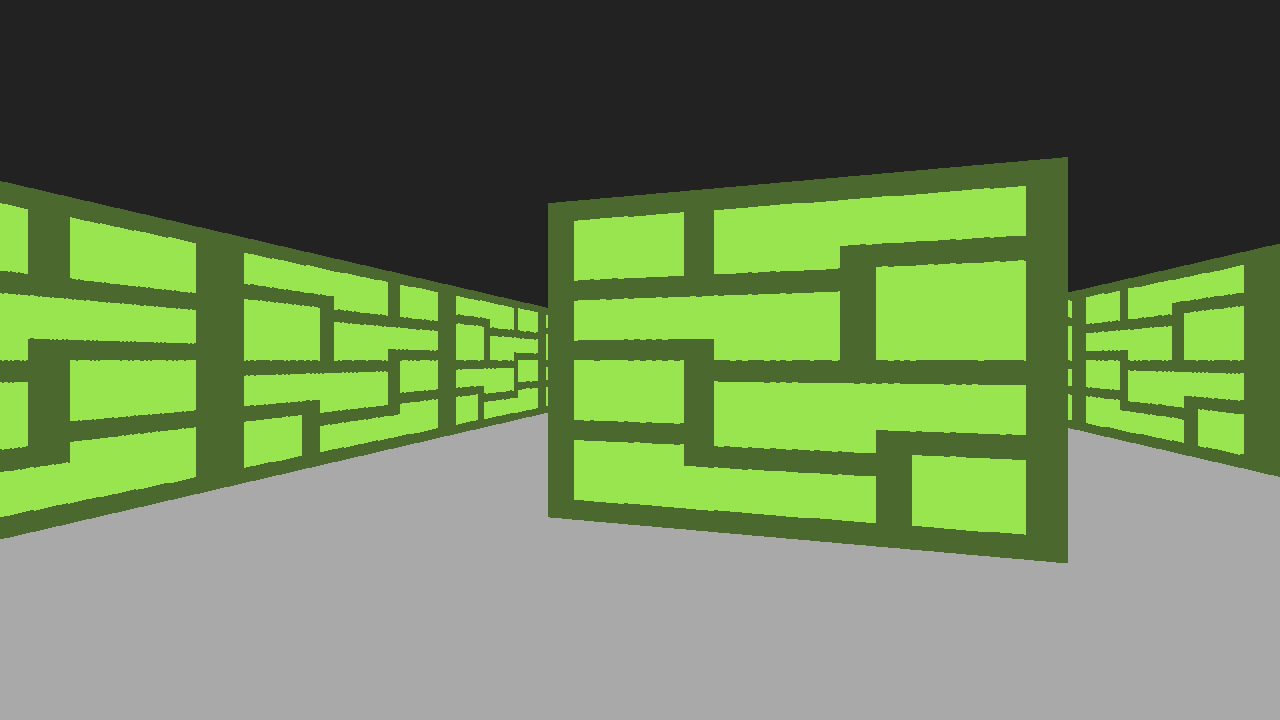
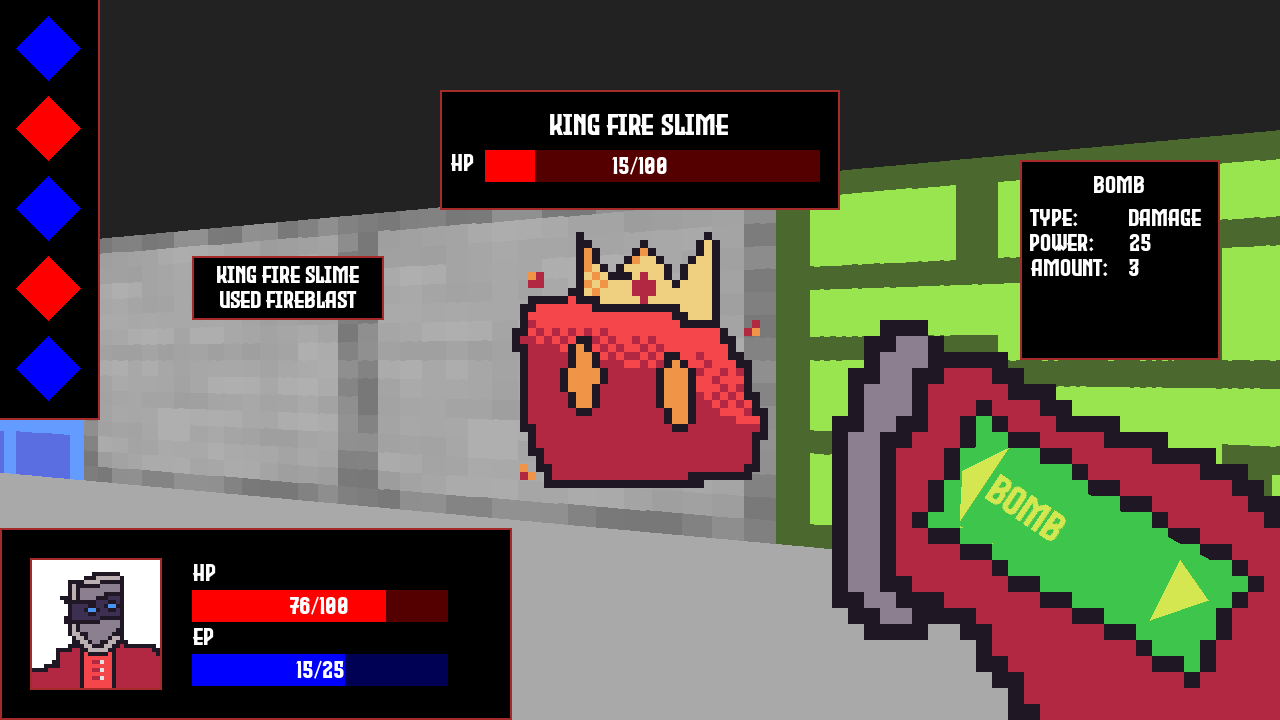
New modular map tiles
-Added Tiles class
-Reworked to work with tiles, sprites and path
-moved some things to render.py
-Can now have different wall tiles
-Reformat maze after created by new maze func so that it uses maze
-Fixed all rendering algorithms to use new tile system

diff --git a/main.py b/main.py
@@ -9,48 +9,39 @@ import block_scan
 import Enum
 import Spritesheet
 from battleElements import *
-#from render import *
+from render import *
 
 print("Hello World!")
 
 
-class tile():
-    def __init__(self):
-        pass
 
-class path(tile):
-    pass
 
-class wall(tile):
-    def __init__(self,image):
-        self.wallImage = image
 
-wallTest = wall(pygame.image.load("Assets/Column.png"))
-
-#The traversable map is stored as a 2D array
-map = [[1,1,1,1,1,1,1,1,1],
-       [1,0,0,0,0,0,0,0,1],
-       [1,0,"S",0,1,1,1,1,1],
-       [1,0,0,0,1],
-       [1,0,"S",0,1],
-       [1,0,0,0,1],
-       [1,0,"S",0,1],
-       [1,0,1,0,1],
-       [1,0,0,0,1],
-       [1,0,"B",0,1],
-       [wallTest,0,0,0,1],
-       [1,0,"W",0,1],#W on this line is just an indicator for me for where the player starts, it doesn't affect any processing
-       [1,1,1,1,1]]
 
 player_pos = [2.5,10.5]#The coordinate of the player, (xy)
 
 FOV = 100 #The field of view of the player
 
-def new_maze():
+
+
+def new_maze(wall_tiles = [wall_image("Brick.png"), wall_image("Blue_Brick.png")]):
     global map, player_pos
 
     map,player_pos = maze.maze_generate(11)
 
+    #add in random thingies here
+    #add some things to the R points
+
+    for x in range(len(map)):
+        for y in range(len(map[x])):
+            if map[x][y] == 1:
+                # map[x][y]=tile("Wall",wall_image=wall_image("Brick.png"))
+                map[x][y]=tile("Wall",wall_image=random.choice(wall_tiles))
+            elif map[x][y] == "S":
+                map[x][y] = tile("Sprite",spriteInfo="S")
+            else:
+                map[x][y] = tile("Path")
+ 
 
 raycast_column_width = 2 #The width of each pixel column, increase it to improve performance as it reduces the amount of rays sent
 
@@ -63,16 +54,37 @@ game_font = pygame.font.Font('Evil Empire.otf', 24)
 
 player_angle=0 # Direction the player is facing
 
-class wall_image():
-    def __init__(self,image_name):
-        self.main_image = Image.open("Assets/"+image_name)
-        self.width = (self.main_image.size)[0]
-        self.height = (self.main_image.size)[1]
-        self.img_slices = []
-        for i in range(self.width):
-            self.img_slices.append(self.main_image.crop((i,0,i+1,16)))
 
 
+wallTest = tile("Wall",wall_image("Column.png"))
+
+#The traversable map is stored as a 2D array, this is my testing map
+map = [[1,1,1,1,1,1,1,1,1],
+       [1,0,0,0,0,0,0,0,1],
+       [1,0,"S",0,1,1,1,1,1],
+       [1,0,0,0,1],
+       [1,0,"S",0,1],
+       [1,0,0,0,1],
+       [1,0,"S",0,1],
+       [1,0,1,0,tile("Wall",wall_image=wall_image("Blue_Brick.png"))],
+       [1,0,0,0,tile("Wall",wall_image=wall_image("SmoothStone.png"))],
+       [1,0,"B",0,tile("Wall",wall_image=wall_image("SmoothStone.png"))],
+       [wallTest,0,0,0,1],
+       [1,0,"W",0,1],#W on this line is just an indicator for me for where the player starts, it doesn't affect any processing
+       [1,1,1,1,1]]
+
+
+for x in range(len(map)):
+    for y in range(len(map[x])):
+        if map[x][y]==1:
+            map[x][y]=tile("Wall",wall_image=wall_image("Brick.png"))
+        elif map[x][y]==0 or map[x][y]=="W":
+            map[x][y]=tile("Path")
+        elif type(map[x][y])==str:
+            map[x][y]=tile("Sprite",spriteInfo=map[x][y])
+            # print(1)
+
+# print(type(tile("Wall",wall_image("Smooth_Stone.png"))))
 
 class battle_sprites():
     def __init__(self, image_name, resolution=32):
@@ -180,8 +192,10 @@ def order_sprites():#bubble sort, sorting the list into ascending order
                 sprites[i+1] = temporary
 
 
-def draw_beam(x_point,distance,image_index): #literally just takes the point along the screen and draws a line based on distance away from the camera, image index is for what column along an image to take
-    ray_slice = brick.img_slices[image_index].transform((raycast_column_width,int(360/distance)),Image.Transform.EXTENT,[0,0,1,16]) #transforms the image slice to the right size, 
+def draw_beam(x_point,distance,image_index,image=brick): #literally just takes the point along the screen and draws a line based on distance away from the camera, image index is for what column along an image to take
+
+    ray_slice = image.img_slices[image_index].transform((raycast_column_width,int(360/distance)),Image.Transform.EXTENT,[0,0,1,16]) #transforms the image slice to the right size, 
+
     pygame_surface = pygame.image.fromstring(ray_slice.tobytes(),ray_slice.size,ray_slice.mode).convert() #Turns the PIL image into a pygame image
     screen.blit(pygame_surface, pygame_surface.get_rect(center = (x_point+(raycast_column_width//2), 360))) # Draws the image slice onto the screen
 
@@ -223,18 +237,18 @@ def raycast_ray(count):
     while not is_blocked:#Until the ray meets a boundary
         degree_angles = math.degrees(angle)#convert angle from radians to degrees as it makes some calculations easier
 
-        if map[ray_pos_grid[1]][ray_pos_grid[0]] in ("S","B"):#if there are any sprites on the screen that should be rendered
+        if map[ray_pos_grid[1]][ray_pos_grid[0]].tileType == "Sprite":#if there are any sprites on the screen that should be rendered
             if (ray_pos_grid[0],ray_pos_grid[1]) not in sprites_pos_that_can_be_rendered:
                 #print(degree_angles)
                 sprites_pos_that_can_be_rendered.append( (ray_pos_grid[0],ray_pos_grid[1]) )
-                if map[ray_pos_grid[1]][ray_pos_grid[0]] == "S":
+                if map[ray_pos_grid[1]][ray_pos_grid[0]].spriteInfo == "S":
                     sprites.append( sprite_obj(ray_pos_grid[0]+0.5,ray_pos_grid[1]+0.5) )
                 else:
                     sprites.append( sprite_obj(ray_pos_grid[0]+0.5,ray_pos_grid[1]+0.5,imageID="KingFireSlime") )
             else:
                 sprites[-1].left_point = 0
 
-        if map[ray_pos_grid[1]][ray_pos_grid[0]] == 1 or map[ray_pos_grid[1]][ray_pos_grid[0]] == wallTest:#if there is a wall
+        if map[ray_pos_grid[1]][ray_pos_grid[0]].tileType == "Wall":#if there is a wall
             is_blocked = True
             
             image_index=0# which column of an image/wall the ray hit, 0.0625 is 1/16, starts from 0 and goes to 15
@@ -247,10 +261,9 @@ def raycast_ray(count):
             elif ray_pos == side_step_y:
                 image_index = int((ray_pos[0]%1)/0.0625)
 
-            if map[ray_pos_grid[1]][ray_pos_grid[0]] == 1:
-                return (round(ray_distance*math.cos(math.radians(player_angle)-angle),5),image_index)#returns the distance to a wall (multipled by the cos of the angle to fix distortion) and the image index
-            else:
-                return (round(ray_distance*math.cos(math.radians(player_angle)-angle),5),image_index,wallTest.wallImage)
+            if map[ray_pos_grid[1]][ray_pos_grid[0]].tileType == "Wall":
+                #returns the distance to a wall (multipled by the cos of the angle to fix distortion) and the image index
+                return (round(ray_distance*math.cos(math.radians(player_angle)-angle),5),image_index,map[ray_pos_grid[1]][ray_pos_grid[0]].wallImage)
         else:
 
             if degree_angles%90!=0:
@@ -427,7 +440,10 @@ def raycast():
     for i in range(1280//raycast_column_width):#cast all the rays
         ray_store.append(raycast_ray(i))
     for i in range(1280//raycast_column_width):#draw all the rays
-        draw_beam(i*raycast_column_width,ray_store[i][0],ray_store[i][1])
+        if len(ray_store[i]) == 2:
+            draw_beam(i*raycast_column_width,ray_store[i][0],ray_store[i][1])
+        else:
+            draw_beam(i*raycast_column_width,ray_store[i][0],ray_store[i][1],ray_store[i][2])
 
     #print(time.perf_counter()-t)
 
@@ -762,7 +778,7 @@ def main():
     turnOrder = calculate_turn_order(player_stats,enemy_obj)
     
 
-    brick = wall_image("Brick.png")
+    
     draw_screen()
     running = True
 
@@ -782,19 +798,19 @@ def main():
                         draw_screen()
 
             if keys[pygame.K_w] or keys[pygame.K_UP]:
-                if map[int(player_pos[1]-0.15* math.cos(math.radians(player_angle)) / abs(math.cos(math.radians(player_angle))) )][int(player_pos[0])] != 1:
+                if map[int(player_pos[1]-0.15* math.cos(math.radians(player_angle)) / abs(math.cos(math.radians(player_angle))) )][int(player_pos[0])].tileType != "Wall":
                     player_pos[1]-=0.05*math.cos(math.radians(player_angle))
                 try: 
-                    if map[int(player_pos[1])][int(player_pos[0]+0.15* math.sin(math.radians(player_angle)) / abs(math.sin(math.radians(player_angle))) )] != 1:
+                    if map[int(player_pos[1])][int(player_pos[0]+0.15* math.sin(math.radians(player_angle)) / abs(math.sin(math.radians(player_angle))) )].tileType != "Wall":
                         player_pos[0]+=0.05*math.sin(math.radians(player_angle))
                 except:
                     pass
 
             if keys[pygame.K_s] or keys[pygame.K_DOWN]:
-                if map[int(player_pos[1]+0.15* math.cos(math.radians(player_angle)) / abs(math.cos(math.radians(player_angle))) )][int(player_pos[0])] != 1:
+                if map[int(player_pos[1]+0.15* math.cos(math.radians(player_angle)) / abs(math.cos(math.radians(player_angle))) )][int(player_pos[0])].tileType != "Wall":
                     player_pos[1]+=0.05*math.cos(math.radians(player_angle))
                 try: 
-                    if map[int(player_pos[1])][int(player_pos[0]-0.15* math.sin(math.radians(player_angle)) / abs(math.sin(math.radians(player_angle))) )] != 1:
+                    if map[int(player_pos[1])][int(player_pos[0]-0.15* math.sin(math.radians(player_angle)) / abs(math.sin(math.radians(player_angle))) )].tileType != "Wall":
                         player_pos[0]-=0.05*math.sin(math.radians(player_angle))
                 except:
                     pass
@@ -807,11 +823,11 @@ def main():
             if True in [keys[pygame.K_UP],keys[pygame.K_LEFT],keys[pygame.K_RIGHT],keys[pygame.K_w],keys[pygame.K_a],keys[pygame.K_d],keys[pygame.K_s],keys[pygame.K_DOWN]]:
                 draw_screen()
 
-            if map[int(player_pos[1])][int(player_pos[0])]=="S": #can change later so we in the centre 0.5 square
+            if map[int(player_pos[1])][int(player_pos[0])].spriteInfo=="S": #can change later so we in the centre 0.5 square
                 new_maze()
                 draw_screen()
-            elif map[int(player_pos[1])][int(player_pos[0])]=="B":
-                map[int(player_pos[1])][int(player_pos[0])] = 0
+            elif map[int(player_pos[1])][int(player_pos[0])].spriteInfo=="B":
+                map[int(player_pos[1])][int(player_pos[0])] = tile("Path")
                 draw_screen()
                 pygame.display.flip()
                 game_state.set_value("Battle")

diff --git a/block_scan.py b/block_scan.py
@@ -10,9 +10,10 @@ from math import sqrt, sin, cos, asin
 #Use a basic ray/raycast to calculate if there is a wall.
 #Use fixed step raycasting as it is easier to implement and has less complexity than DDA
 
+from render import * #get classes to understand tileType stuff although i don't think this is necessary
 
 
-def scan(grid:list, pos1:tuple, pos2:tuple, wall_val:int =1) -> bool:
+def scan(grid:list, pos1:tuple, pos2:tuple) -> bool:
     step_size = 0.025
     
     #no need because sine graph isn't symetrical
@@ -35,7 +36,7 @@ def scan(grid:list, pos1:tuple, pos2:tuple, wall_val:int =1) -> bool:
     scan_ray_pos = [pos1[0],pos1[1]] #Postion of the ray that to test if it is a wall, stop list linking
 
     while travel_distance < point_distance: 
-        if grid[int(scan_ray_pos[1])][int(scan_ray_pos[0])] == wall_val:
+        if grid[int(scan_ray_pos[1])][int(scan_ray_pos[0])].tileType == "Wall":
             return False #There is a wall blocking the line of sight, breaks out of function
         
         travel_distance += step_size                      #How far the ray has travelled so far

diff --git a/render.py b/render.py
@@ -1,4 +1,23 @@
 #import math
-
+# import pygame
+from PIL import Image
 #move rendering functions into here 
           
+class wall_image():
+    def __init__(self,image_name):
+        self.main_image = Image.open("Assets/"+image_name)
+        self.width = (self.main_image.size)[0]
+        self.height = (self.main_image.size)[1]
+        self.img_slices = []
+        for i in range(self.width):
+            self.img_slices.append(self.main_image.crop((i,0,i+1,16)))
+
+brick = wall_image("Brick.png")
+
+
+
+class tile():
+    def __init__(self,tileType,wall_image=None,spriteInfo=None):
+        self.tileType=tileType
+        self.wallImage = wall_image
+        self.spriteInfo = spriteInfo

diff --git a/maze.py b/maze.py
@@ -101,7 +101,7 @@ def maze_generate(size: int) -> list:
 
             points =  free_spaces(maze,tracker_point)
 
-    maze[y_start][x_start]="W"
+    maze[y_start][x_start]="W"#start point
 
     R_points = []
     for y in range(size):
